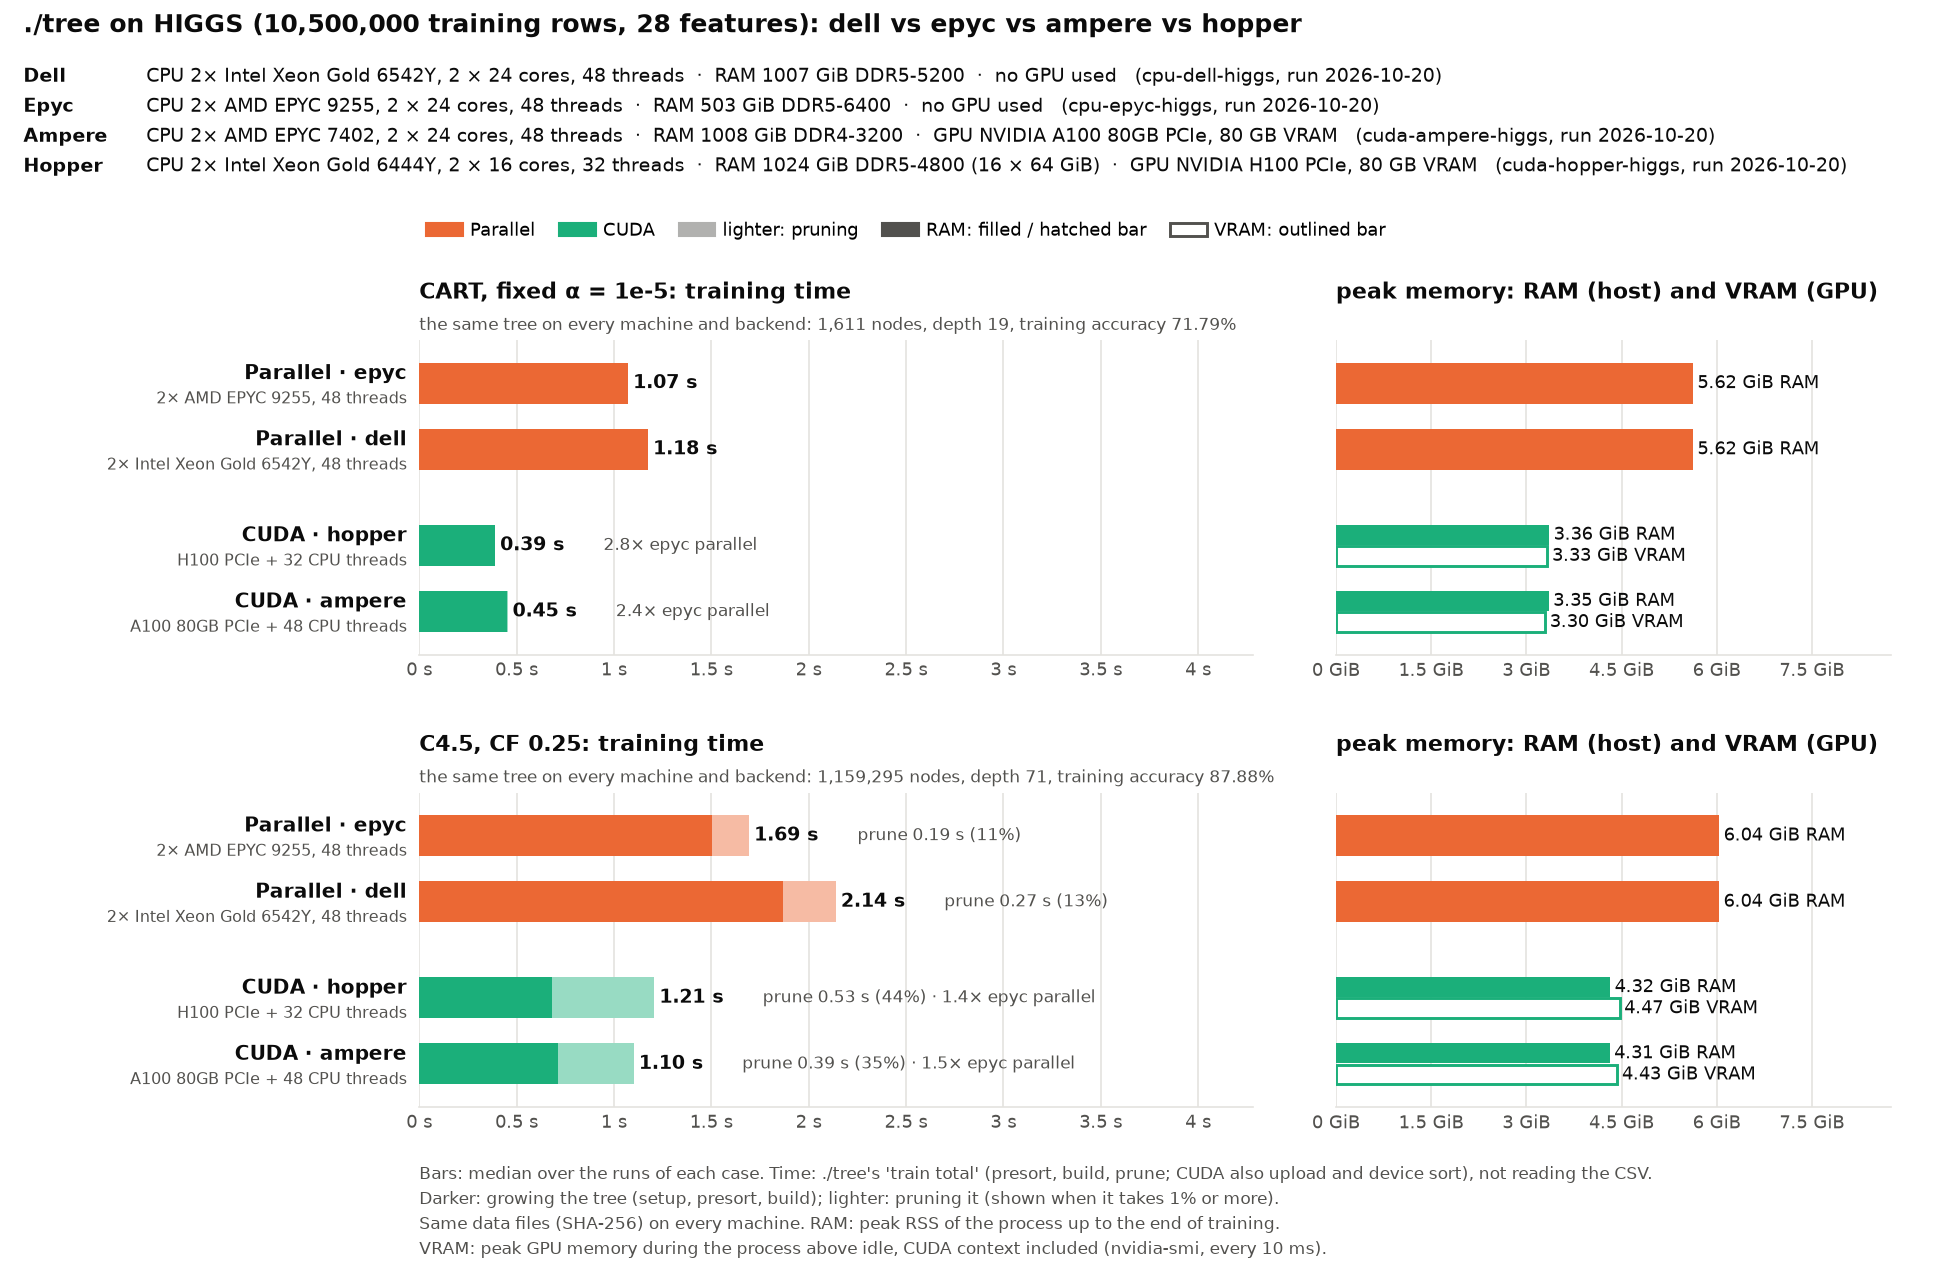
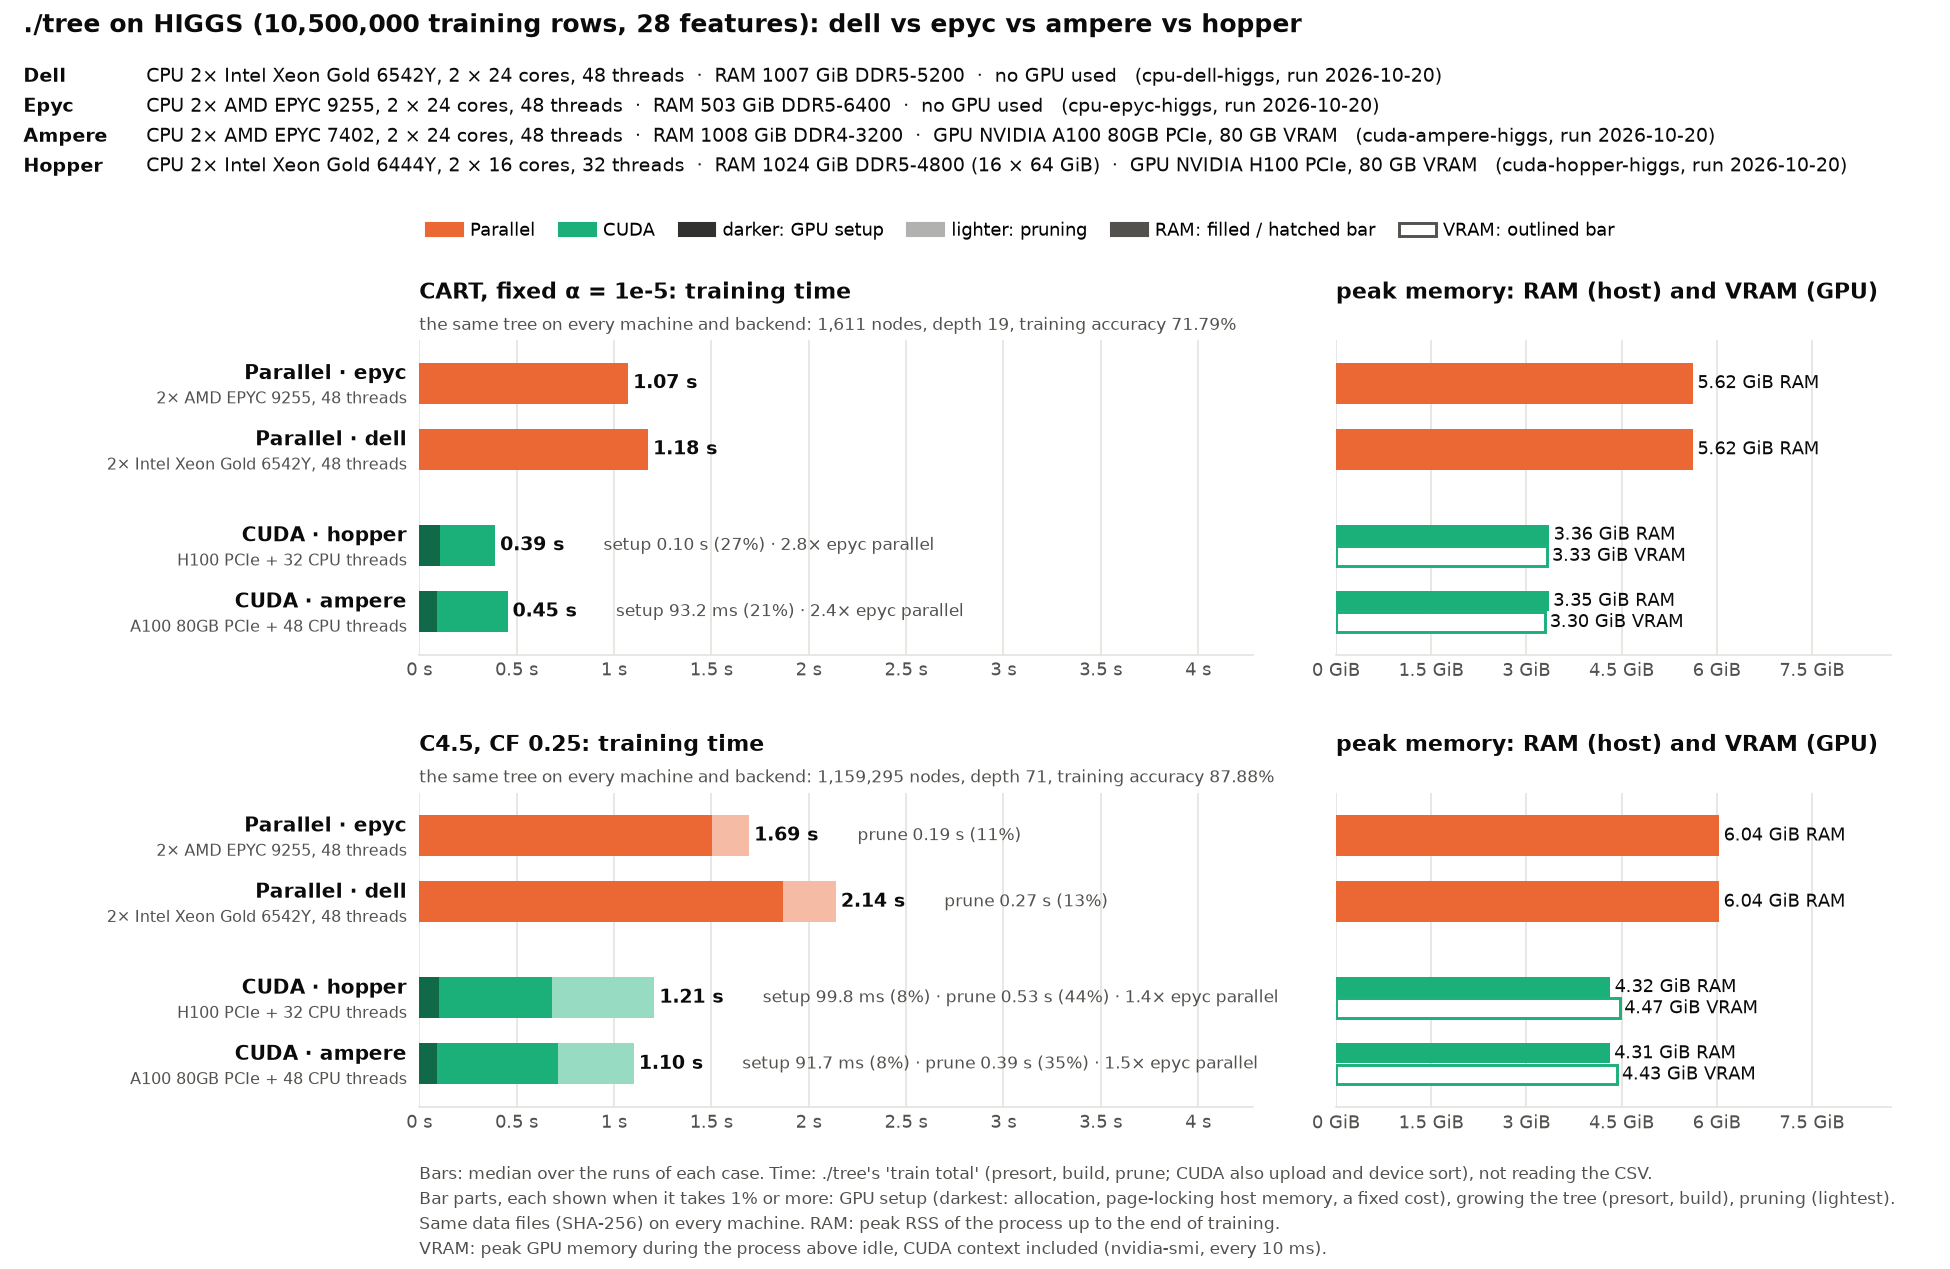
machines charts: the GPU's setup (a fixed cost) as the bar's first, darker part
Shown, like pruning, when it takes 1% of the bar or more; on log axes each
part's length is its share of the bar. HIGGS, airline and the full ECBDL
charts redrawn; chess and the ECBDL 15M chart follow with the GPU-only reruns.

diff --git a/bench/machines_chart.py b/bench/machines_chart.py
@@ -4,8 +4,10 @@ training time and peak memory of every backend the runs hold (serial, parallel,
 CUDA), one panel per protocol (CART above C4.5). Colour follows the backend; the reference run's bars
 are hatched. The header names every machine's CPU, RAM and GPU; memory is split
 into RAM (host, peak RSS) and VRAM (GPU) bars. When the runs recorded ./tree's
-phases, a time bar is split into growing the tree (setup, presort, build) and,
-lighter, pruning it.
+phases, a time bar is split into the GPU's setup (darker; allocation, waiting
+for page-locked memory: a fixed cost), growing the tree (presort, build) and,
+lighter, pruning it; a part is drawn when it takes 1% of the bar or more. On
+log axes each part's length is its share of the bar.
 
 Refuses to draw when the runs did not read the same data (SHA-256 of the
 prepared files in plan.json) or did not build the same trees.
@@ -18,8 +20,8 @@ run and a dot per run, and writes their min and max.
 
 --log draws the time and memory axes on a log scale (sizes that differ by
 orders of magnitude, e.g. serial against CUDA) and writes every case's recorded
-pruning time next to its bar, also for the unpruned protocols (where it is only
-C4.5's collapse of useless splits) and below 1%.
+pruning time next to its bar (if any), also for the unpruned protocols (where it
+is only C4.5's collapse of useless splits) and below 1%.
 
 --more adds the cases of later runs kept in another directory under the same
 run names (e.g. cluster-ecbdl/unpruned/cpu-epyc-ecbdl next to
@@ -69,6 +71,25 @@ LOG = False  # --log: log-scale axes, and every case's pruning time in its notes
 def after(value, largest):
     """Where a label goes just right of a bar ending at `value`."""
     return value * 1.06 if LOG else value + largest * 0.012
+
+
+def darker(color, amount=0.4):
+    """`color` mixed with black: the GPU setup part of a time bar."""
+    rgb = [int(color[i:i + 2], 16) for i in (1, 3, 5)]
+    return "#" + "".join(f"{round(c * (1 - amount)):02x}" for c in rgb)
+
+
+def spans(parts, low):
+    """-> (left, width) of each part of a bar made of the durations `parts`,
+    from 0. On a log axis starting at `low`, each part's length on the axis is
+    its share of the bar (log(t) - log(low)), as on a linear axis."""
+    total, out, start, done = sum(parts), [], 0.0, 0.0
+    for part in parts:
+        done += part
+        end = low * (total / low) ** (done / total) if LOG and total > low else done
+        out.append((start, end - start))
+        start = end
+    return out
 
 
 def duration(seconds):
@@ -122,6 +143,7 @@ def bars(run, reference):
                         else f"{short_cpu(info)}, {threads} thread{'s' if threads > 1 else ''}")
             gpu = [r["gpu_peak_bytes"] for r in ok if r.get("gpu_peak_bytes") is not None]
             prune = [r["prune_seconds"] for r in ok if r.get("prune_seconds") is not None]
+            setup = [r["gpu_setup_seconds"] for r in ok if r.get("gpu_setup_seconds") is not None]
             out.append({"protocol": protocol, "backend": backend, "hardware": hardware,
                         "run": run, "reference": reference,
                         "time": statistics.median(r["train_seconds"] for r in ok),
@@ -133,6 +155,9 @@ def bars(run, reference):
                         "prune": (statistics.median(prune)
                                   if len(prune) == len(ok) and protocol not in UNPRUNED else None),
                         "pruned": statistics.median(prune) if len(prune) == len(ok) else None,
+                        # Median GPU setup (fixed cost), if every run recorded it.
+                        "setup": (statistics.median(setup)
+                                  if len(setup) == len(ok) and backend in GPU else None),
                         # Test accuracy, or training accuracy where only that was
                         # recorded (run.py --train-accuracy-only).
                         "tree": (ok[0]["nodes"], ok[0]["depth"],
@@ -204,16 +229,23 @@ def main():
     for run in reversed(runs):
         machines.setdefault(where(run), []).append(run)
     header = 0.42 + 0.2 * len(machines)  # inches of the hardware lines
-    footer = 0.18 if any(e["prune"] is not None and not e["reference"] for e in entries) else 0
-    footer += 0.18 if SPREAD else 0  # the footer's line on the whiskers
+    for e in entries:  # the parts drawn: 1% of the bar or more, not on reference bars
+        for part in ("prune", "setup"):
+            if e[part] is not None and (e["reference"] or e[part] < 0.01 * e["time"]):
+                e[part + "_bar"] = None
+            else:
+                e[part + "_bar"] = e[part]
+    split = any(e["prune_bar"] or e["setup_bar"] for e in entries)
+    # The footer's lines on the bar parts (two on log axes) and the whiskers.
+    footer = (0.36 if LOG else 0.18) if split else 0
+    footer += 0.18 if SPREAD else 0
     # At least three bars high: the row labels take two lines each.
     count = len(PROTOCOLS)
     inches = 1.9 + header + footer + count * 0.58 * max(per_panel + 0.45 * gaps, 3)
-    split = any(e["prune"] is not None and not e["reference"] for e in entries)
     # Between the panels: the lower one's title and subtitle and the upper one's
     # tick labels, the same in inches however few bars the panels hold.
     gap = 0.92
-    panels = inches - (header + 1.05) - (1.08 if split else 0.9) - (0.18 if SPREAD else 0)
+    panels = inches - (header + 1.05) - ((1.26 if LOG else 1.08) if split else 0.9) - (0.18 if SPREAD else 0)
     fig, axes = plt.subplots(count, 2, figsize=(13, inches), squeeze=False,
                              gridspec_kw={"width_ratios": [1.5, 1], "wspace": 0.12,
                                           "hspace": gap / ((panels - (count - 1) * gap) / count)})
@@ -252,22 +284,27 @@ def main():
         times = {(e["run"], e["backend"]): e["time"] for e in mine}
         for y, e in zip(ys, mine):
             run, backend, t = e["run"], e["backend"], e["time"]
-            prune = e["prune"]
-            if prune is not None and not e["reference"]:
-                # Growing (everything but pruning), then pruning in a lighter shade.
-                ax_time.barh(y, t - prune, height=0.62, zorder=2, **style(e))
-                ax_time.barh(y, prune, left=t - prune, height=0.62, zorder=2,
-                             color=lighter(COLORS[backend]))
-            else:
-                ax_time.barh(y, t, height=0.62, zorder=2, **style(e))
+            prune, setup = e["prune_bar"] or 0, e["setup_bar"] or 0
+            # GPU setup darker, growing, pruning lighter.
+            low = 10 ** math.floor(math.log10(min_time))
+            for (left, width), part in zip(spans([setup, t - setup - prune, prune], low),
+                                           ("setup", "grow", "prune")):
+                if width <= 0:
+                    continue
+                look = (style(e) if part == "grow" else
+                        dict(color=darker(COLORS[backend]) if part == "setup"
+                             else lighter(COLORS[backend])))
+                ax_time.barh(y, width, left=left, height=0.62, zorder=2, **look)
+            prune = e["prune"] if e["prune_bar"] else None
             # Pruning's share; speedup over the same machine's serial run; CUDA
             # also over the same machine's parallel run and the fastest other
             # machine's.
-            if LOG and e["pruned"] is not None:
-                notes = [f"prune {duration(e['pruned'])}"]
-            else:
-                notes = ([f"prune {prune:.2f} s ({100 * prune / t:.0f}%)"]
-                         if prune is not None and prune >= 0.01 * t else [])
+            notes = ([f"setup {duration(setup)} ({100 * setup / t:.0f}%)"] if setup else [])
+            if LOG and e["pruned"] is not None and e["pruned"] >= 0.00005:
+                notes.append(f"prune {duration(e['pruned'])}")
+            elif prune is not None:
+                notes.append(f"prune {duration(prune) if LOG else f'{prune:.2f} s'} "
+                             f"({100 * prune / t:.0f}%)")
             if backend != "serial" and (run, "serial") in times:
                 notes.append(f"{times[(run, 'serial')] / t:.1f}× {where(run)} serial")
             if backend in GPU:
@@ -353,7 +390,9 @@ def main():
                  va="top")
     handles = [Patch(color=COLORS[b], label=BACKENDS[b]) for b in BACKENDS
                if any(e["backend"] == b for e in entries)]
-    if split:
+    if any(e["setup_bar"] for e in entries):
+        handles.append(Patch(color=darker(MUTED), label="darker: GPU setup"))
+    if any(e["prune_bar"] for e in entries):
         handles.append(Patch(color=lighter(MUTED), label="lighter: pruning"))
     if args.reference:
         handles.append(Patch(facecolor="white", edgecolor=MUTED, hatch="////",
@@ -375,15 +414,21 @@ def main():
              f"Bars: {runs_text}{'' if runs_text.endswith(chr(10)) else '. '}Time: ./tree's 'train total' (presort, build, prune; CUDA also "
              "upload and device sort), not reading the CSV."
              + (" Log-scale axes; 'prune': ./tree's prune timer." if LOG else "")
-             + ("\nDarker: growing the tree (setup, presort, build); lighter: pruning it "
-                "(shown when it takes 1% or more)." if split else "")
+             + ("\nBar parts, each shown when it takes 1% or more: "
+                + ("GPU setup (darkest: allocation, page-locking host memory, a fixed cost), "
+                   if any(e["setup_bar"] for e in entries) else "")
+                + "growing the tree (presort, build)"
+                + (", pruning (lightest)" if any(e["prune_bar"] for e in entries) else "")
+                + (".\nLog axes: a part's length is its share of the bar, as on a linear axis."
+                   if LOG else ".")
+                if split else "")
              + "\nSame data files (SHA-256) on every "
              "machine. RAM: peak RSS of the process up to the end of training.\nVRAM: peak GPU "
              "memory during the process above idle, CUDA context included (nvidia-smi, every 10 ms)."
              + (f" Not recorded correctly: {', '.join(sorted(NO_VRAM))}." if NO_VRAM else ""),
              fontsize=8, color=MUTED, linespacing=1.5)
     fig.subplots_adjust(left=LEFT, right=0.97, top=1 - (header + 1.05) / inches,
-                        bottom=((1.08 if split else 0.9) + (0.18 if SPREAD else 0)) / inches)
+                        bottom=(((1.26 if LOG else 1.08) if split else 0.9) + (0.18 if SPREAD else 0)) / inches)
     fig.savefig(out, dpi=150, facecolor="white")
     print(out)
 
